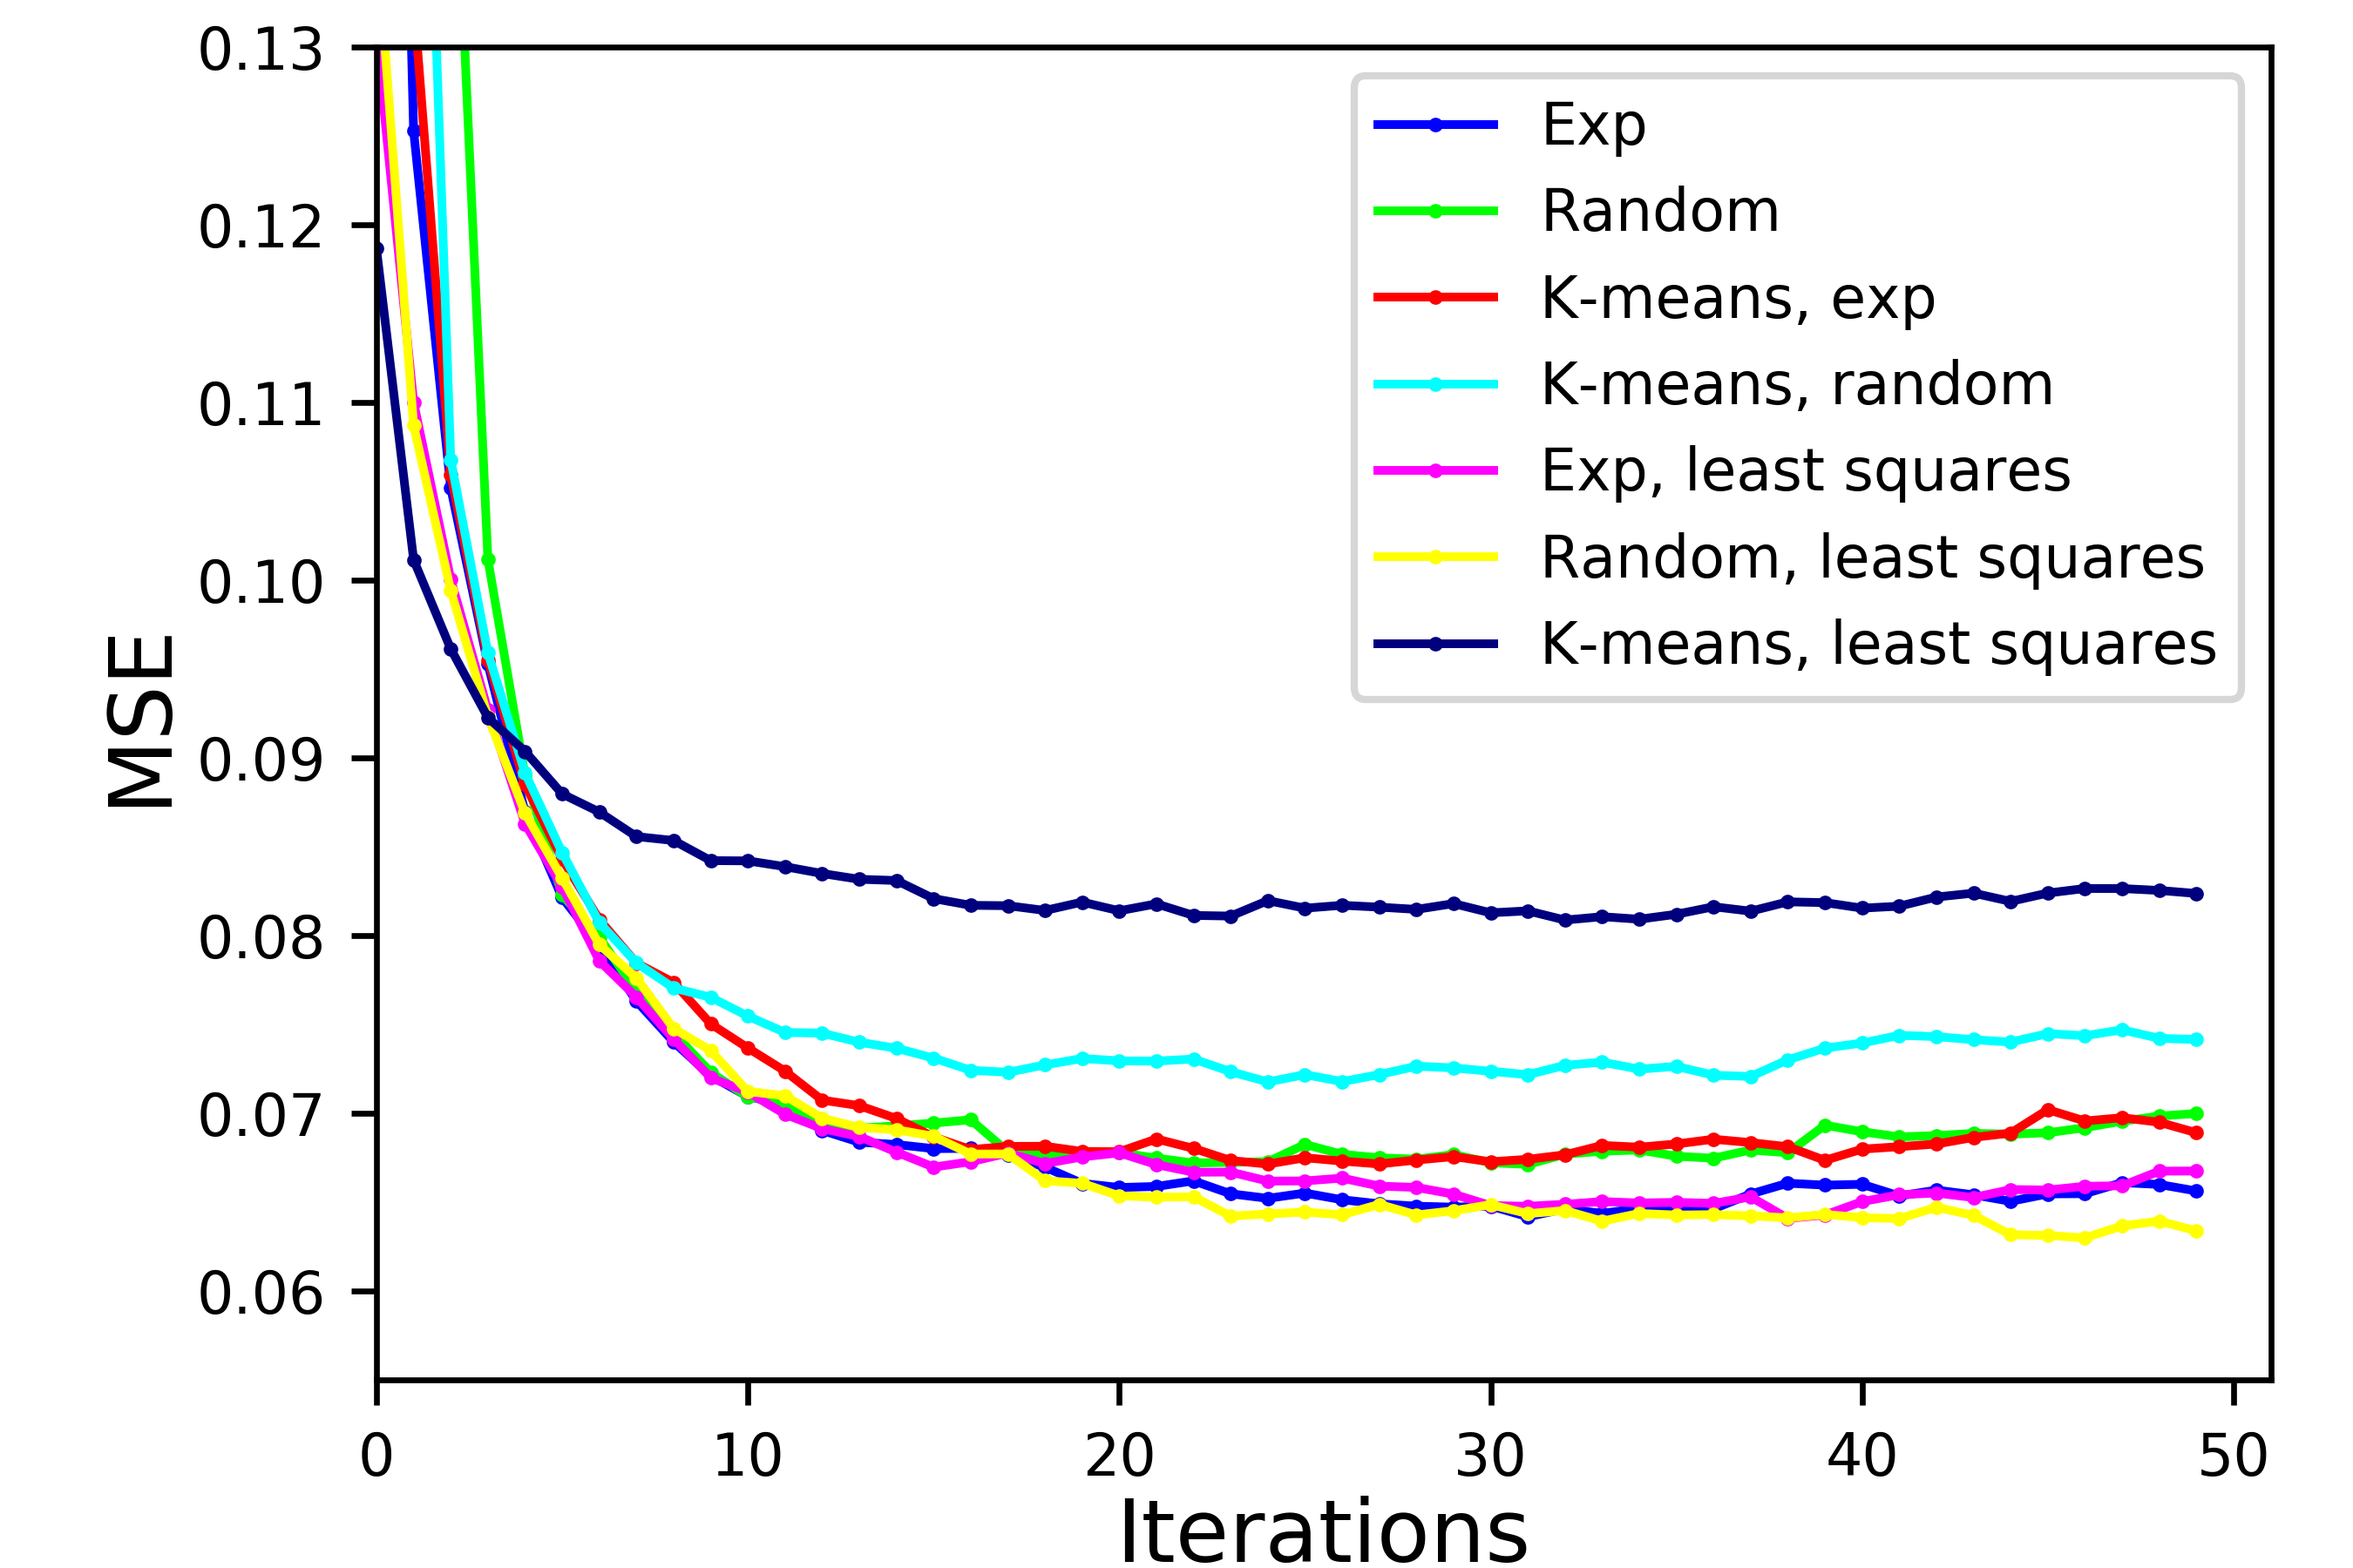
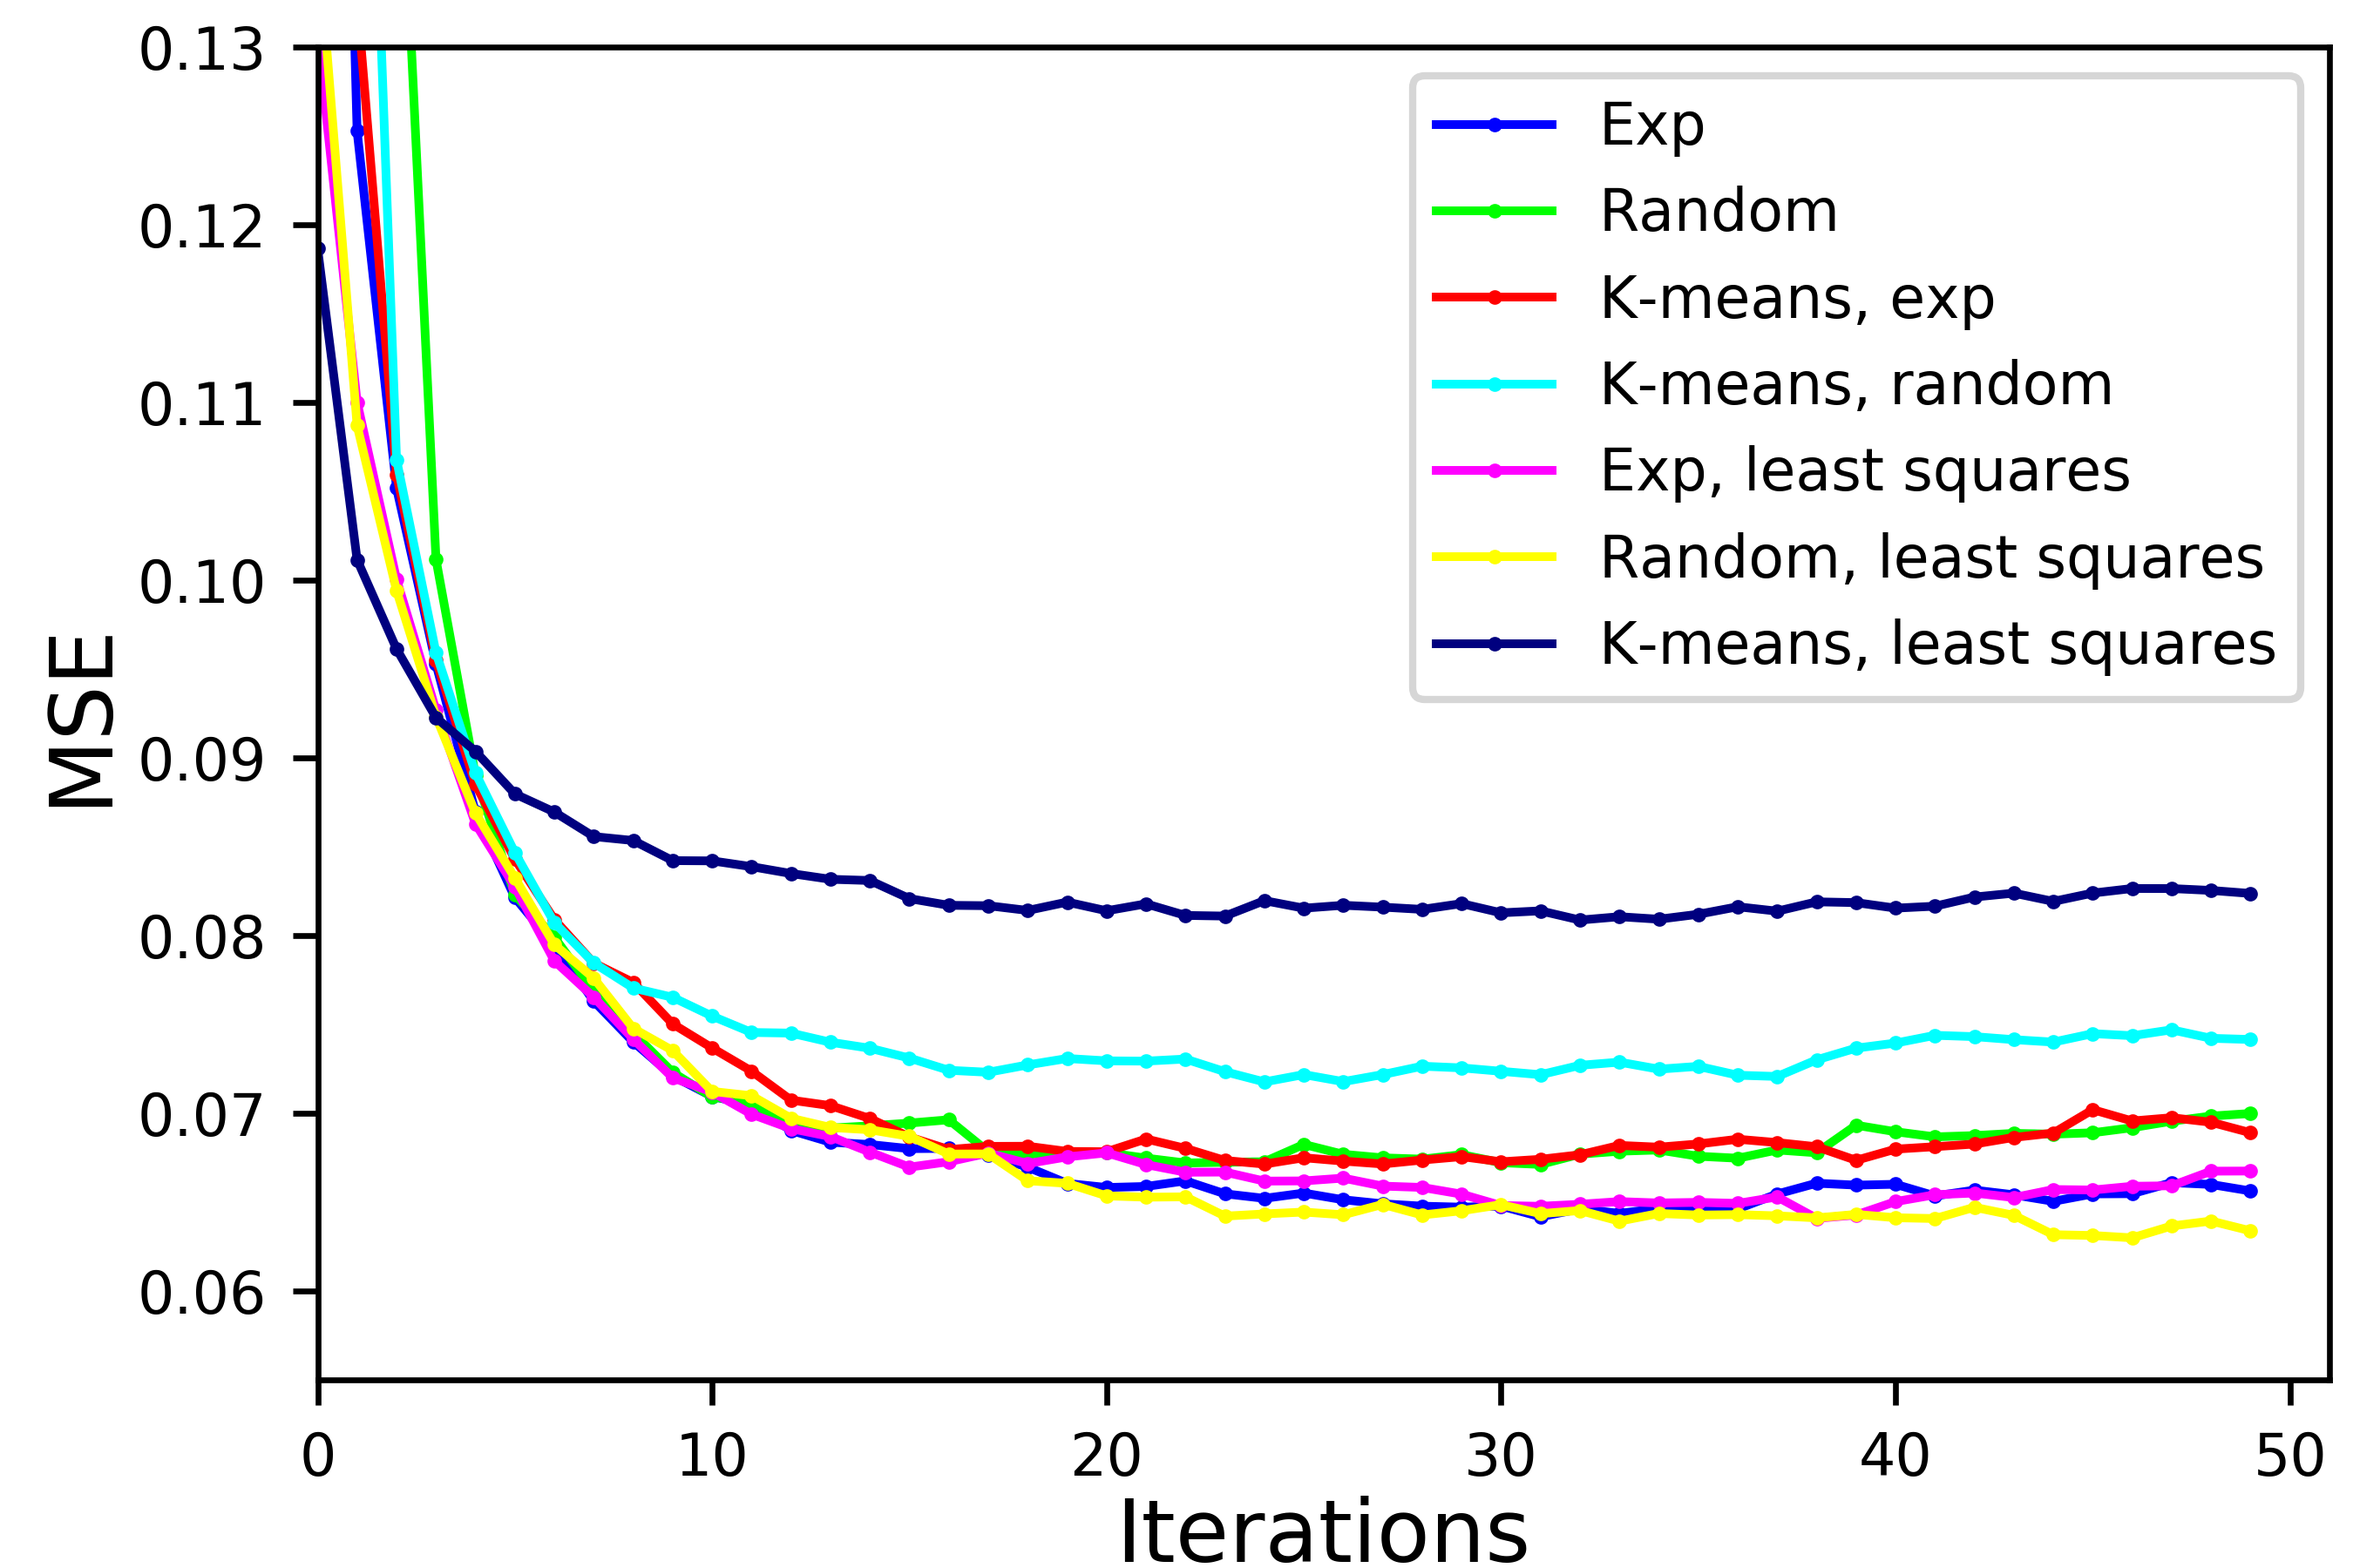
Made small adjustments init graphs.

diff --git a/drug_sensitivity/varying_init/plots/plot.py b/drug_sensitivity/varying_init/plots/plot.py
@@ -28,7 +28,7 @@ markersize = 1
 ''' Method for plotting. '''
 def plot(name, MSE_min, MSE_max, all_performances, no_iterations):
     fig = plt.figure(figsize=(4.5,3.0))
-    fig.subplots_adjust(left=0.16, right=0.965, bottom=0.12, top=0.97)
+    fig.subplots_adjust(left=0.135, right=0.99, bottom=0.12, top=0.97)
     plt.xlabel("Iterations", fontsize=12, labelpad=1) #fontsize=8
     plt.ylabel("MSE", fontsize=12, labelpad=2) #fontsize=8, labelpad=-1
     plt.yticks(fontsize=8) #fontsize=6
